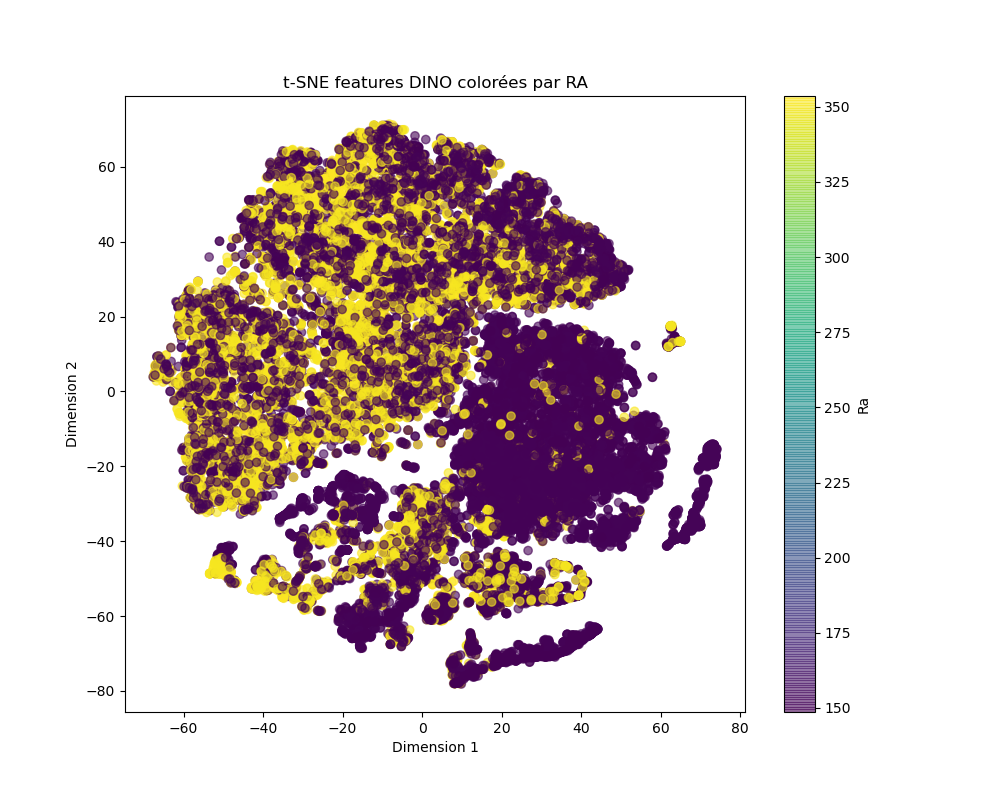
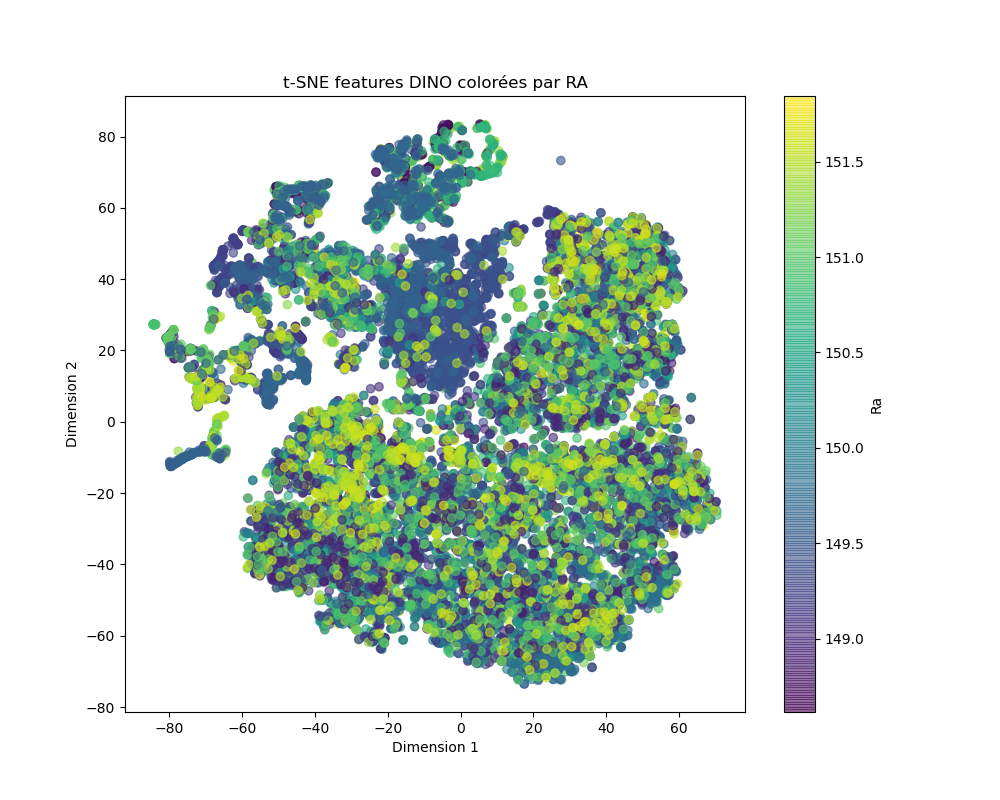
plots dino only on cosmo D

diff --git a/dino_features.py b/dino_features.py
@@ -210,7 +210,7 @@ for i, w in enumerate(weights_paths) :
             im_to_pred = images[k:k+200]
             if i>=1 :
                 im_to_pred = np.concatenate([im_to_pred, np.expand_dims(masques[k:k+200], axis=1)], axis=-1)
-            f = model.predict(images[k:k+200])
+            f = model.predict(im_to_pred)
         features.append(f["cls_token"]) 
         k+=200
     #features_cls = [f["cls_token"] for f in features]
